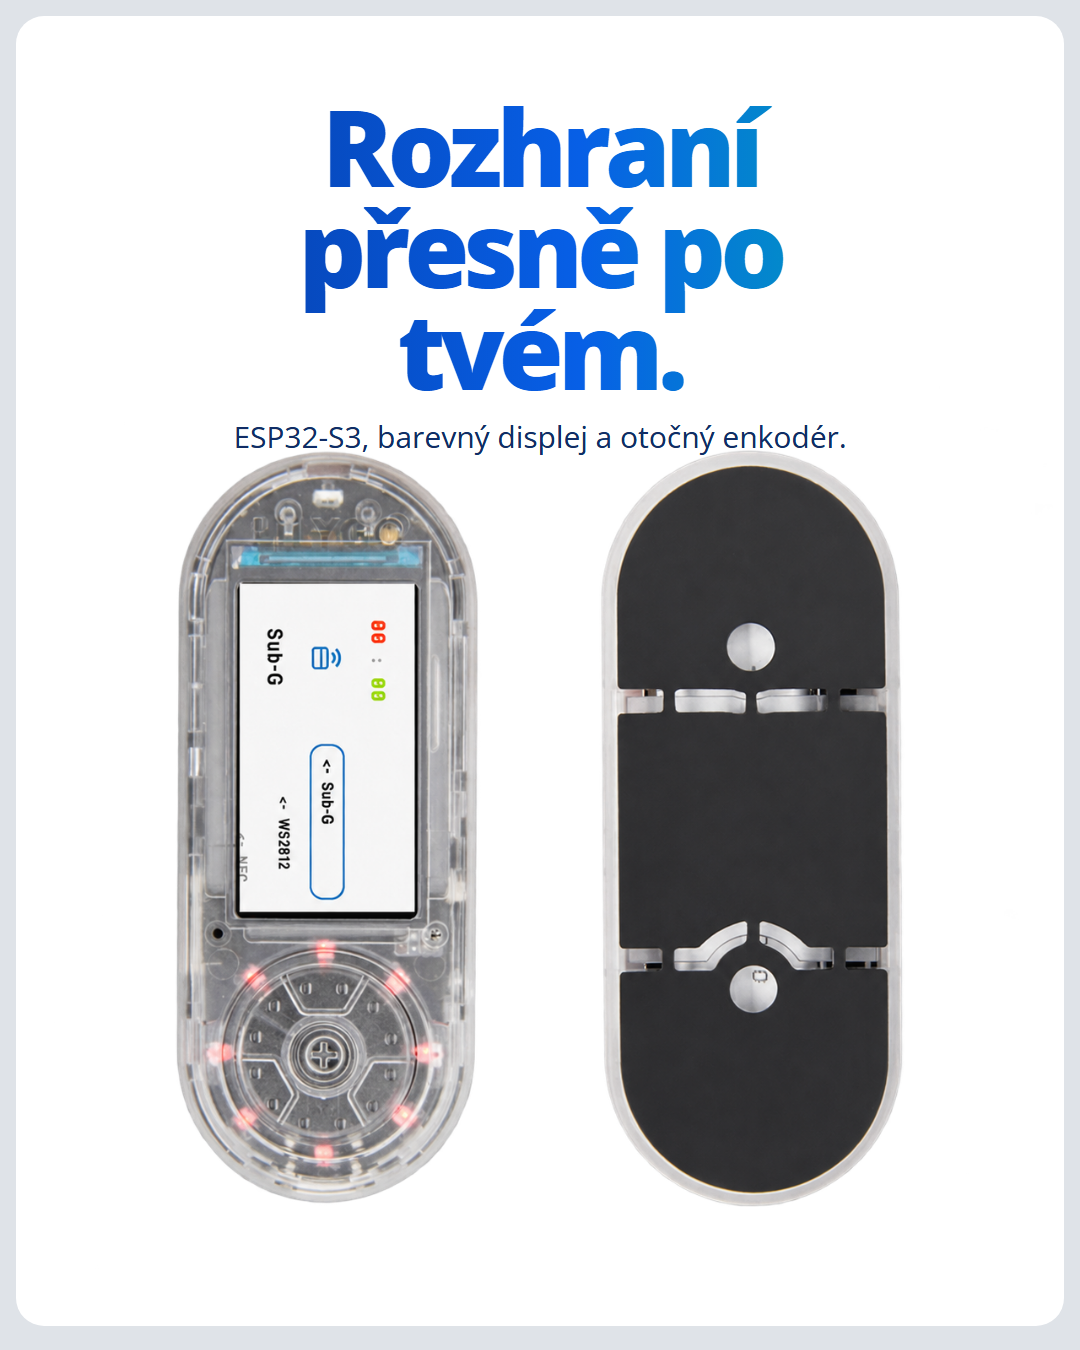
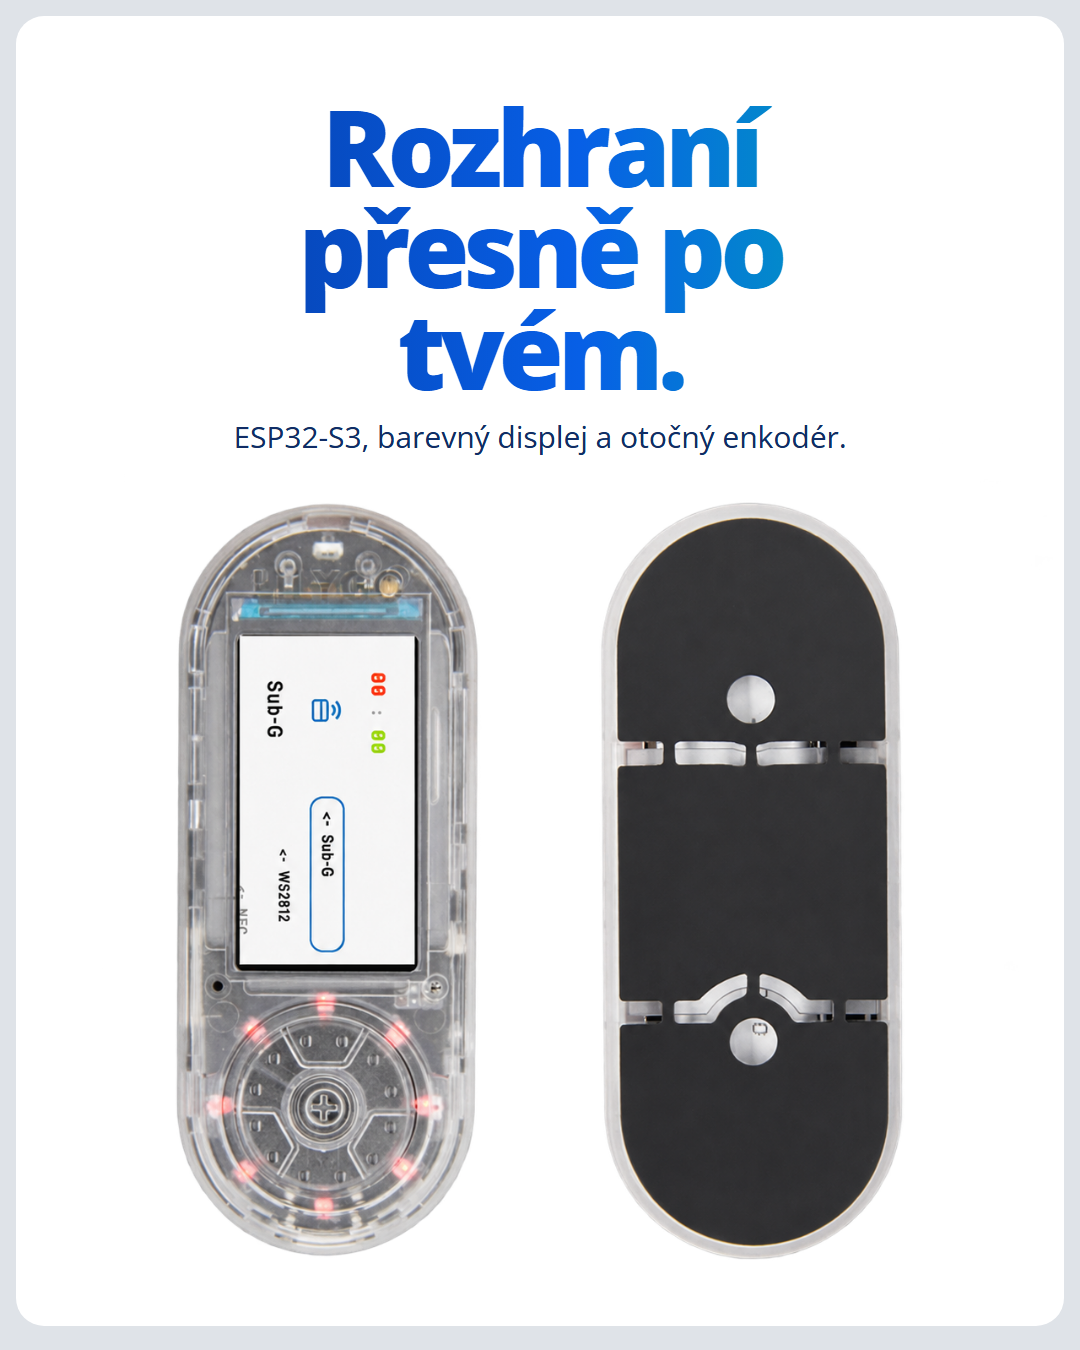
Polish Flipper text and Lilygo spacing

diff --git a/public/ig-templates/styles.css b/public/ig-templates/styles.css
@@ -21,6 +21,6 @@
 .ig h1,.ig h2{overflow:visible;text-wrap:balance;padding:.1em .05em .14em;margin:-.1em -.05em -.14em}
 .five-products .inner{top:7.8cqw}.five-products h1{line-height:1.06}
 .tech-icons-generated{position:absolute;inset:0;z-index:3;width:100%;height:100%;object-fit:fill;pointer-events:none;user-select:none;-webkit-user-drag:none}
-.flipper-editorial{background:#fff;color:#102d66}.flipper-editorial .inner{inset:7.6cqw 7.8cqw auto}.flipper-editorial h1{font-size:8.8cqw;line-height:1.01}.flipper-editorial .sub{max-width:72cqw;margin:1.8cqw auto 0;font-size:2.85cqw}.flipper-editorial .editorial-product{position:absolute;z-index:2;left:-4cqw;bottom:5cqw;width:108cqw;height:72cqw;object-fit:cover;object-position:center 61%}
-.lilygo-editorial .inner{inset:7.6cqw 13cqw auto}.lilygo-editorial h1{font-size:10.1cqw;line-height:.96}.lilygo-editorial .sub{font-size:2.85cqw}.lilygo-editorial-product{position:absolute;z-index:2;left:-2cqw;bottom:-3cqw;width:104cqw;height:101cqw;object-fit:contain}
+.flipper-editorial{background:#fff;color:#102d66}.flipper-editorial .inner{inset:7.6cqw 7.8cqw auto}.flipper-editorial h1{font-size:8.8cqw;line-height:1.01}.flipper-editorial h1,.flipper-editorial .sub{background:linear-gradient(90deg,#063da8,#075fe6 55%,#00a8b8);-webkit-background-clip:text;background-clip:text;color:transparent}.flipper-editorial .sub{max-width:72cqw;margin:1.8cqw auto 0;font-size:2.85cqw}.flipper-editorial .editorial-product{position:absolute;z-index:2;left:-4cqw;bottom:5cqw;width:108cqw;height:72cqw;object-fit:cover;object-position:center 61%}
+.lilygo-editorial .inner{inset:7.6cqw 13cqw auto}.lilygo-editorial h1{font-size:10.1cqw;line-height:.96}.lilygo-editorial .sub{font-size:2.85cqw}.lilygo-editorial-product{position:absolute;z-index:2;left:-2cqw;bottom:-8cqw;width:104cqw;height:101cqw;object-fit:contain}
 .cardputer-editorial{background:var(--okla-gradient)}.cardputer-editorial .inner{inset:7.4cqw 8cqw auto}.cardputer-editorial h1{font-size:8.6cqw;line-height:.98}.cardputer-editorial .sub{max-width:70cqw;margin:1.8cqw auto 0;font-size:2.8cqw}.cardputer-editorial-product{position:absolute;z-index:2;left:-3cqw;bottom:-1cqw;width:106cqw;height:91cqw;object-fit:contain}
